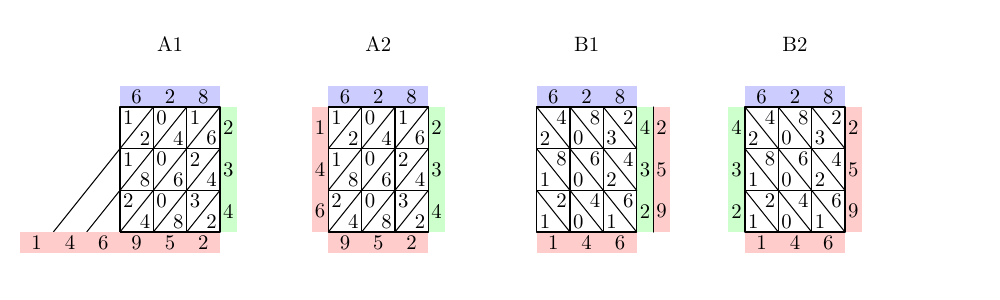
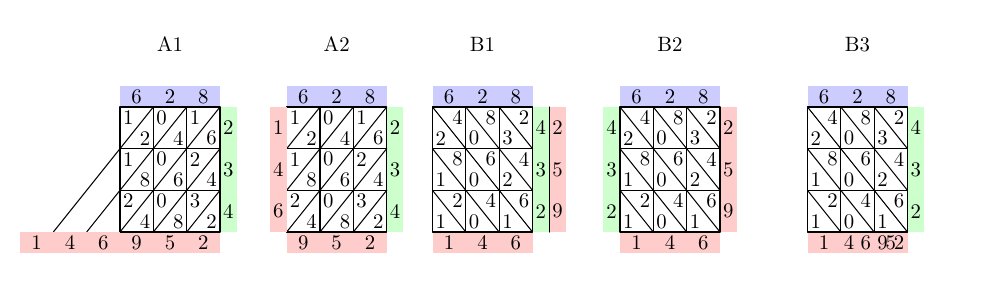
Adding another sub-variant for the rectangular multiplication.

diff --git a/doc/rect-mult.tex b/doc/rect-mult.tex
@@ -78,13 +78,9 @@ label(btex 9 etex, (x - 5   * dc, y - 6.5 * dl));
 
 enddef;
 
-% x  horizontal coordinate of the rectangle
-% xm horizontal coordinate of the multiplier
-% xp horizontal coordinate of the last part of the product
-def gridb(expr x, y, xm, xp) =
+% For B1, B2 and B3
+def gridbb(expr x, y) =
 
-fill (xm, y) -- (xm + dc, y) -- (xm + dc, y - 6 * dl) -- (xm, y - 6 * dl) -- cycle  withcolor(0.8, 1, 0.8);
-fill (xp, y) -- (xp + dc, y) -- (xp + dc, y - 6 * dl) -- (xp, y - 6 * dl) -- cycle  withcolor(1, 0.8, 0.8);
 grid(x, y);
 
 label(btex 2 etex, (x - 5.5 * dc, y - 1.5 * dl));
@@ -120,6 +116,18 @@ draw (x - 6 * dc, y         ) -- (x         , y - 6 * dl);
 draw (x - 4 * dc, y         ) -- (x         , y - 4 * dl);
 draw (x - 2 * dc, y         ) -- (x         , y - 2 * dl);
 
+enddef;
+
+% For B1 and B2, but not B3
+% x  horizontal coordinate of the rectangle
+% xm horizontal coordinate of the multiplier
+% xp horizontal coordinate of the last part of the product
+def gridb(expr x, y, xm, xp) =
+
+fill (xm, y) -- (xm + dc, y) -- (xm + dc, y - 6 * dl) -- (xm, y - 6 * dl) -- cycle  withcolor(0.8, 1, 0.8);
+fill (xp, y) -- (xp + dc, y) -- (xp + dc, y - 6 * dl) -- (xp, y - 6 * dl) -- cycle  withcolor(1, 0.8, 0.8);
+gridbb(x, y);
+
 label(btex 2 etex, (xm + 0.5 * dc, y - 5 * dl));
 label(btex 3 etex, (xm + 0.5 * dc, y - 3 * dl));
 label(btex 4 etex, (xm + 0.5 * dc, y -     dl));
@@ -144,7 +152,7 @@ label(btex 4  etex, (x -  9 * dc, y - 6.5 * dl));
 label(btex 1  etex, (x - 11 * dc, y - 6.5 * dl));
 label(btex A1 etex, (x -  3 * dc, y + 3   * dl));
 
-x := 150;
+x := 130;
 grida(x, y);
 fill (x - 7 * dc, y) -- (x - 6 * dc, y) -- (x - 6 * dc, y - 6 * dl) -- (x - 7 * dc, y - 6 * dl) -- cycle  withcolor(1, 0.8, 0.8);
 label(btex 6  etex, (x - 6.5 * dc, y - 5 * dl));
@@ -152,14 +160,29 @@ label(btex 4  etex, (x - 6.5 * dc, y - 3 * dl));
 label(btex 1  etex, (x - 6.5 * dc, y -     dl));
 label(btex A2 etex, (x - 3   * dc, y + 3 * dl));
 
-x :=  250;
+x := 200;
 gridb(x, y, x, x + dc);
 draw (x + dc, y) -- (x + dc, y - 6 * dl);
 label(btex B1 etex, (x -  3 * dc, y + 3   * dl));
 
-x := 350;
+x := 290;
 gridb(x, y, x - 7 * dc, x);
 label(btex B2 etex, (x -  3 * dc, y + 3   * dl));
+
+x := 380;
+gridbb(x, y);
+fill (x, y) -- (x + dc, y) -- (x + dc, y - 6 * dl) -- (x, y - 6 * dl) -- cycle  withcolor(0.8, 1, 0.8);
+label(btex 2 etex, (x + 0.5 * dc, y - 5   * dl));
+label(btex 3 etex, (x + 0.5 * dc, y - 3   * dl));
+label(btex 4 etex, (x + 0.5 * dc, y -       dl));
+label(btex 1 etex, (x - 5   * dc, y - 6.5 * dl));
+label(btex 4 etex, (x - 3.5 * dc, y - 6.5 * dl));
+label(btex 6 etex, (x - 2.5 * dc, y - 6.5 * dl));
+label(btex 9 etex, (x - 1.5 * dc, y - 6.5 * dl));
+label(btex 5 etex, (x - 1   * dc, y - 6.5 * dl));
+label(btex 2 etex, (x - 0.5 * dc, y - 6.5 * dl));
+
+label(btex B3 etex, (x -  3 * dc, y + 3   * dl));
 
 endfig;
 \end{mplibcode}
